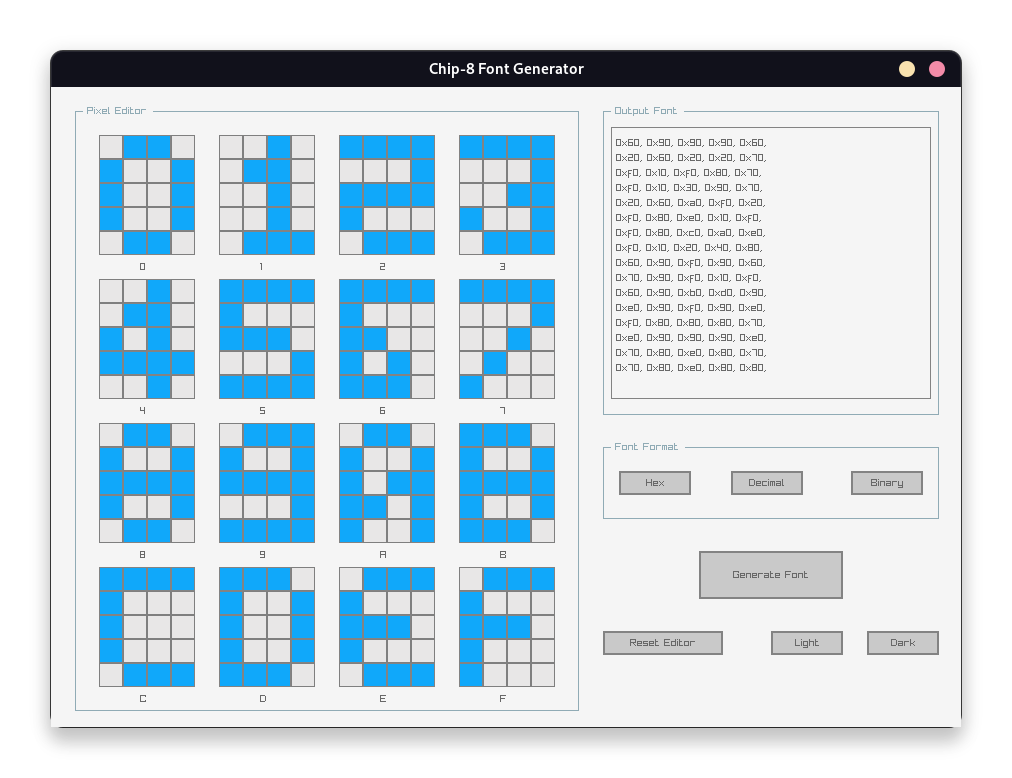
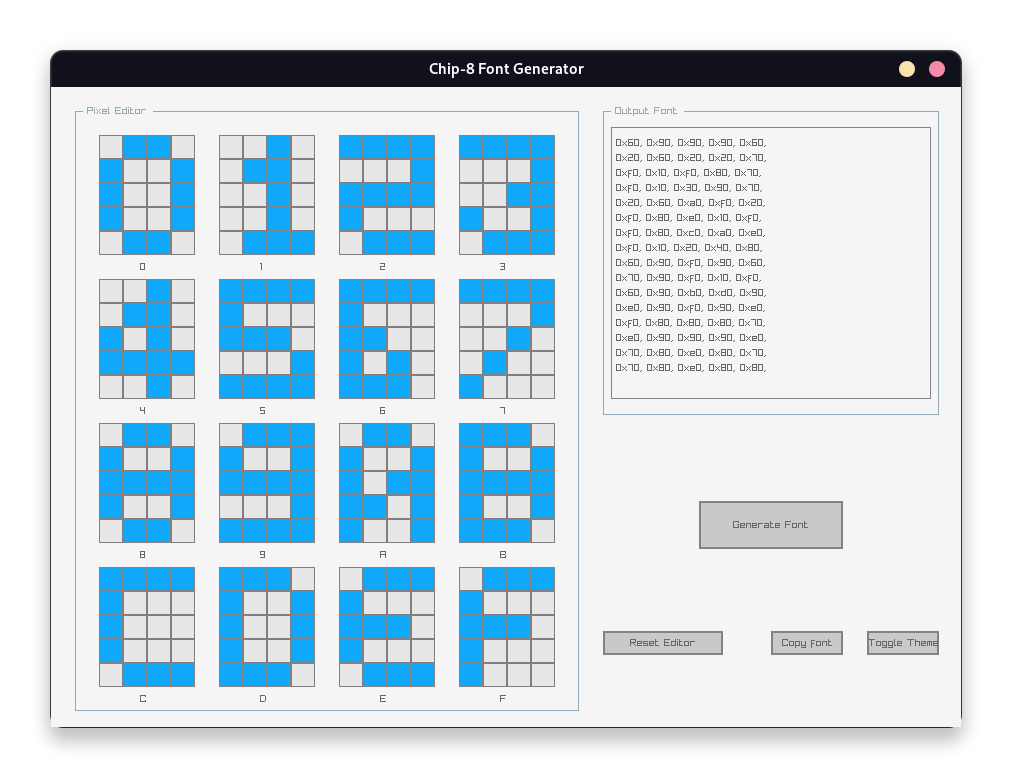
update: docs and screenshot

Changed region(s): [[0.6126, 0.5861, 0.919, 0.7712], [0.8577, 0.8021, 0.8883, 0.8329], [0.7964, 0.8021, 0.8271, 0.8329]]

diff --git a/README.md b/README.md
@@ -1,25 +1,37 @@
 # c8fontgen
 
-![ui_light](img/ui_light.png)
+![ui_dark](img/ui_dark.png)
 
 c8fontgen - abbreviated from Chip-8 Font Generator, is a tiny pixel editor
 that allows you to generate custom chip-8 fonts. Chip-8 Sprites are 4x5, 1-bit
 coded, and formatted as a simple array of bytes.
-
+Chip-8 only uses the first or higher nibble to encode the fonts. You will notice
+that the numerical output has it's lower nibble set to zero, always. 
 
 ## Feature Set
 
 - 16 Pixel Editors for each sprite.
-- Outputs in various numerical bases. (WIP)
-- All written in pure C code.
-- Dark/Light Themes. (WIP)
+- Completely written in pure C.
+- Dark/Light Themes.
 
 ## Dependencies
 
 - raygui
 - raylib
-- gcc
-- cmake
+- cmake (build)
+
+## Theme Showcase
+
+Both of the following themes are adaptations from the default (light) and
+cyber theme that can be found in [rGuiStyler](https://raylibtech.itch.io/rguistyler).
+The adaptations only change toggle theme colors.
+
+- LightC8
+
+![ui_light](./img/ui_light.png)
+
+- CyberC8
+![ui_dark](./img/ui_dark.png)
 
 ## Goals
 
